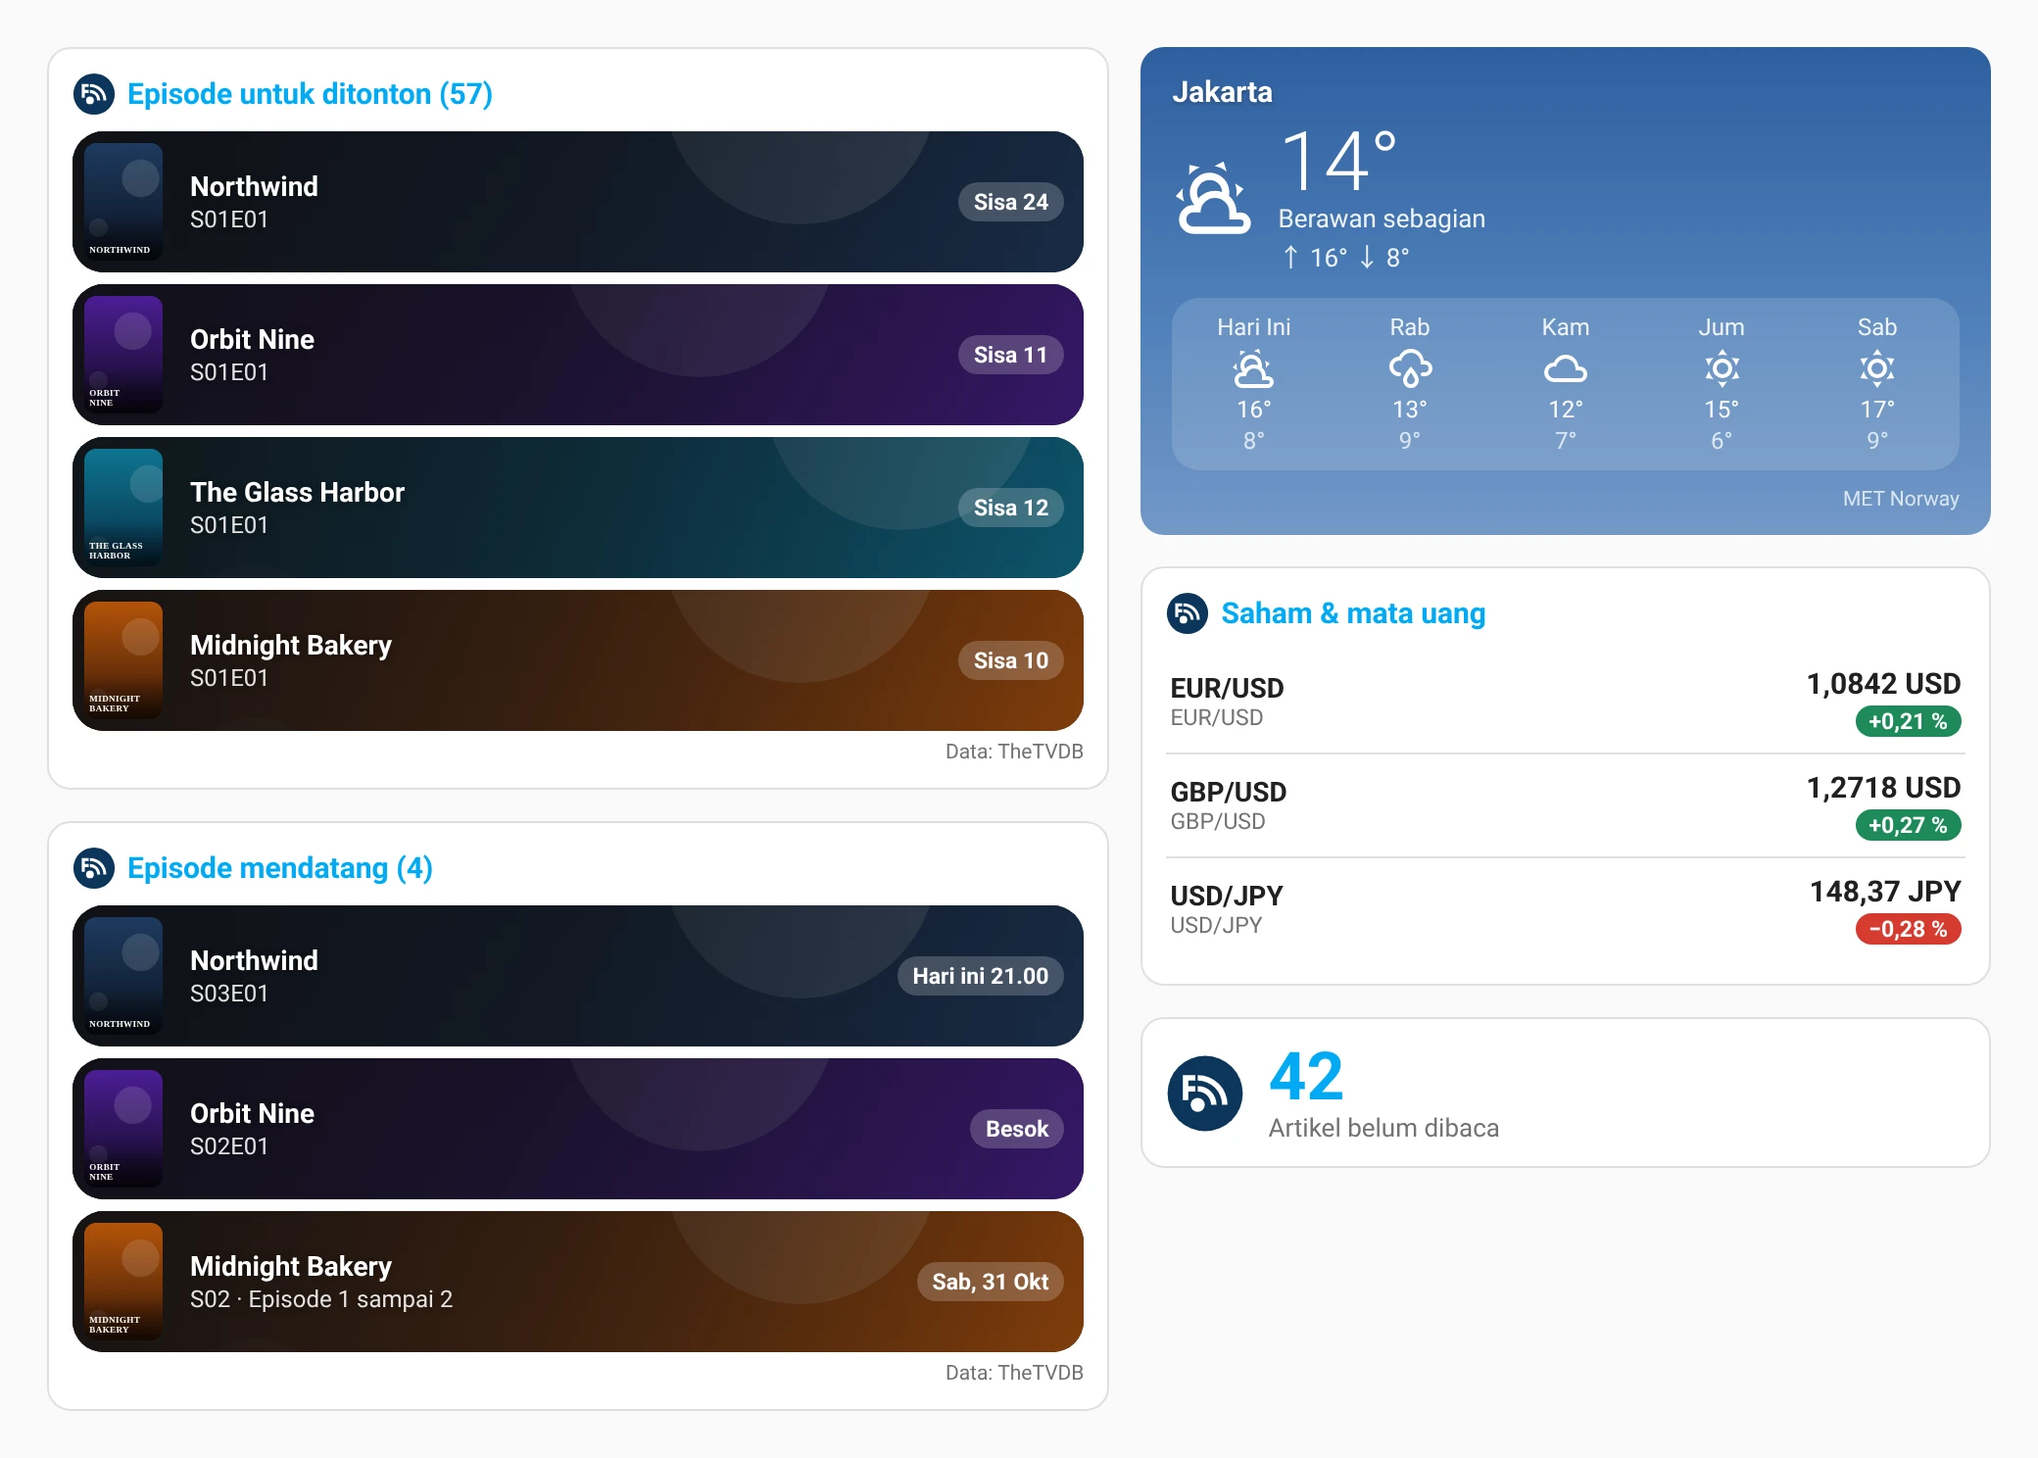
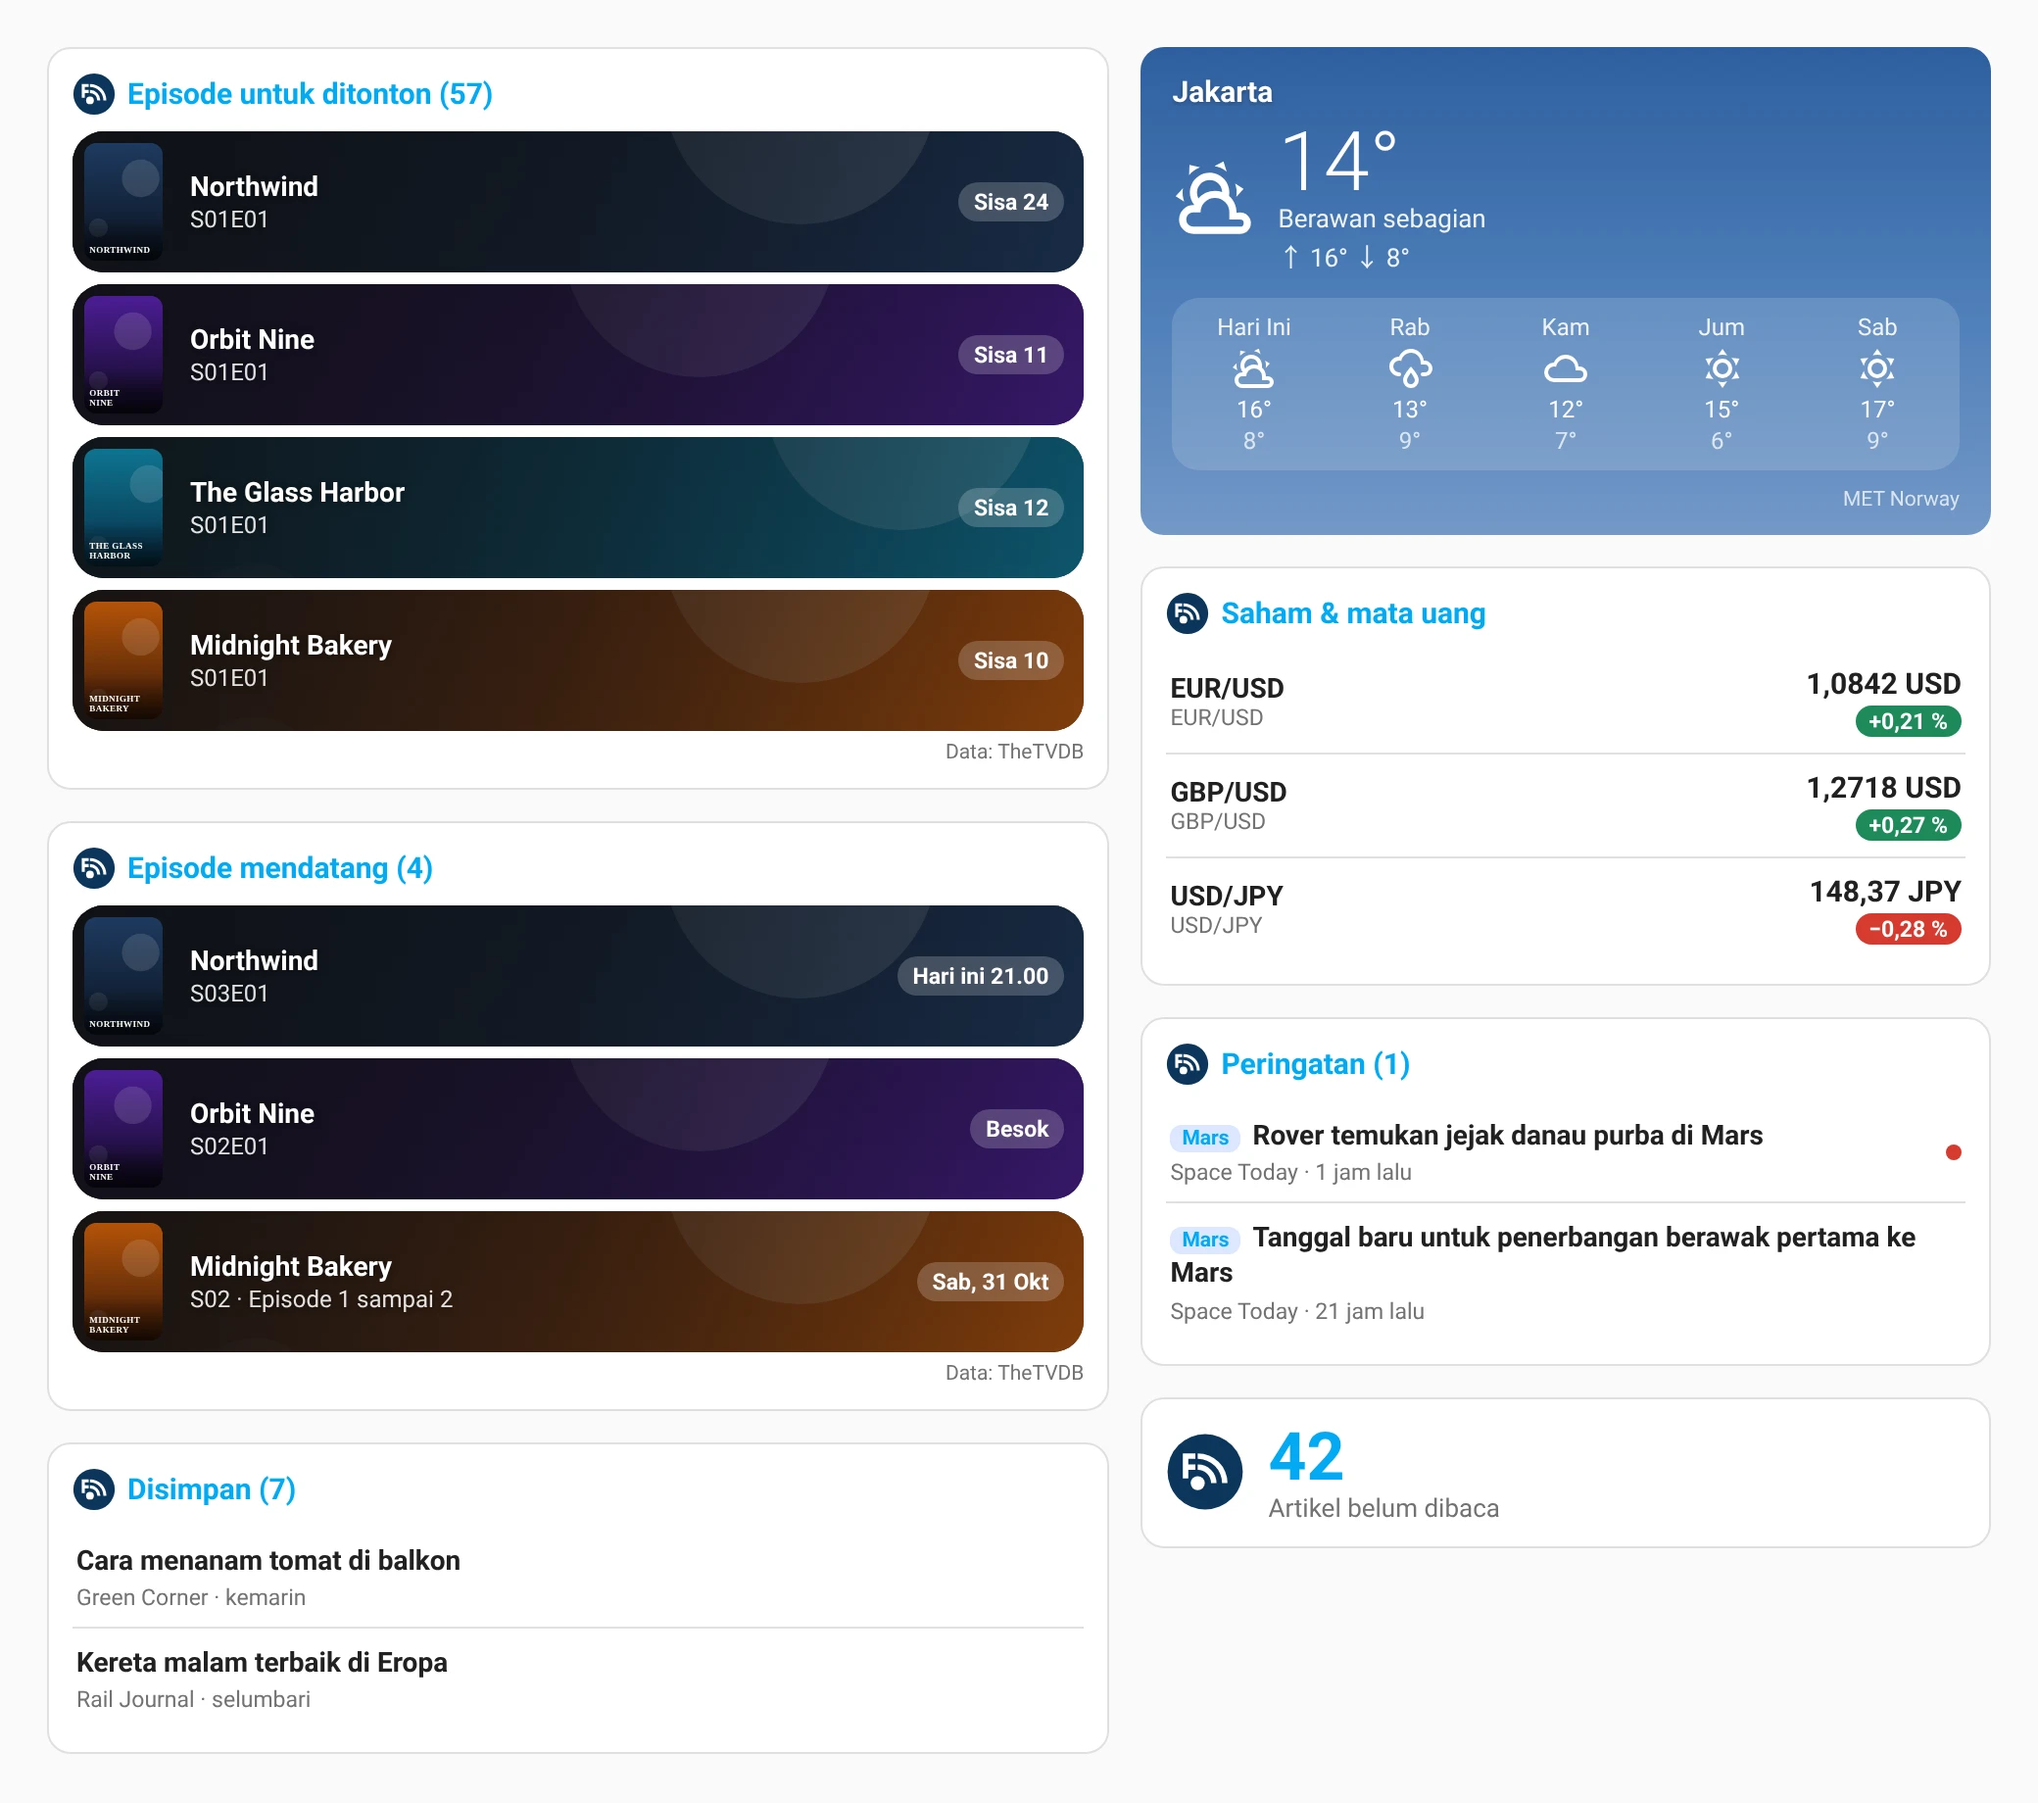
Pictures: the Upcoming, Saved and Alerts cards, names without the device prefix
render.mjs now draws the dedicated Upcoming card, the new Saved and Alerts
cards (invented headlines in each of the 20 languages), and gives the
fake hass a registry and the "Feedrion" device name, so the pictures show
the names the cards really print. The keyword and anti-spoil pills use
margin-inline-end, so they keep their gap in right-to-left languages.

Claude-Session: https://claude.ai/code/session_01LemTxNzXpWZD5UDgox72yF

diff --git a/custom_components/feedrion/frontend/feedrion-cards.js b/custom_components/feedrion/frontend/feedrion-cards.js
@@ -1553,9 +1553,9 @@ const ARTICLES_CSS = `
             -webkit-box-orient: vertical; overflow: hidden; }
   .meta { margin-top: 3px; font-size: 11.5px; color: var(--secondary-text-color); white-space: nowrap;
           overflow: hidden; text-overflow: ellipsis; }
-  .badge { display: inline-block; margin-right: 6px; padding: 0 6px; border-radius: 6px; font-size: 10.5px;
+  .badge { display: inline-block; margin-inline-end: 6px; padding: 0 6px; border-radius: 6px; font-size: 10.5px;
            font-weight: 700; background: #FFE898; color: #5C4612; vertical-align: 1px; }
-  .kw { display: inline-block; margin-right: 6px; padding: 0 6px; border-radius: 6px; font-size: 10.5px;
+  .kw { display: inline-block; margin-inline-end: 6px; padding: 0 6px; border-radius: 6px; font-size: 10.5px;
         font-weight: 700; background: rgba(10,76,255,.14); color: var(--primary-color); }
   .unseen { width: 8px; height: 8px; border-radius: 50%; background: #D63A2F; flex: none; }
 `;

diff --git a/README.md b/README.md
@@ -4,7 +4,7 @@ A [Home Assistant](https://www.home-assistant.io) integration for
 [Feedrion](https://feedrion.com): your feeds, your TV shows, your cities'
 weather, your currencies and your stocks, as entities, events and actions.
 
-![Feedrion cards on a Home Assistant dashboard: episodes to watch, upcoming episodes, weather, currencies and the unread counter](docs/images/cards-en.webp)
+![Feedrion cards on a Home Assistant dashboard: episodes to watch, upcoming episodes, weather, currencies, saved articles, keyword alerts and the unread counter](docs/images/cards-en.webp)
 
 **Requires Feedrion Premium.** A connected account that is not Premium shows a
 repair notice and its sensors go unavailable until it is.
